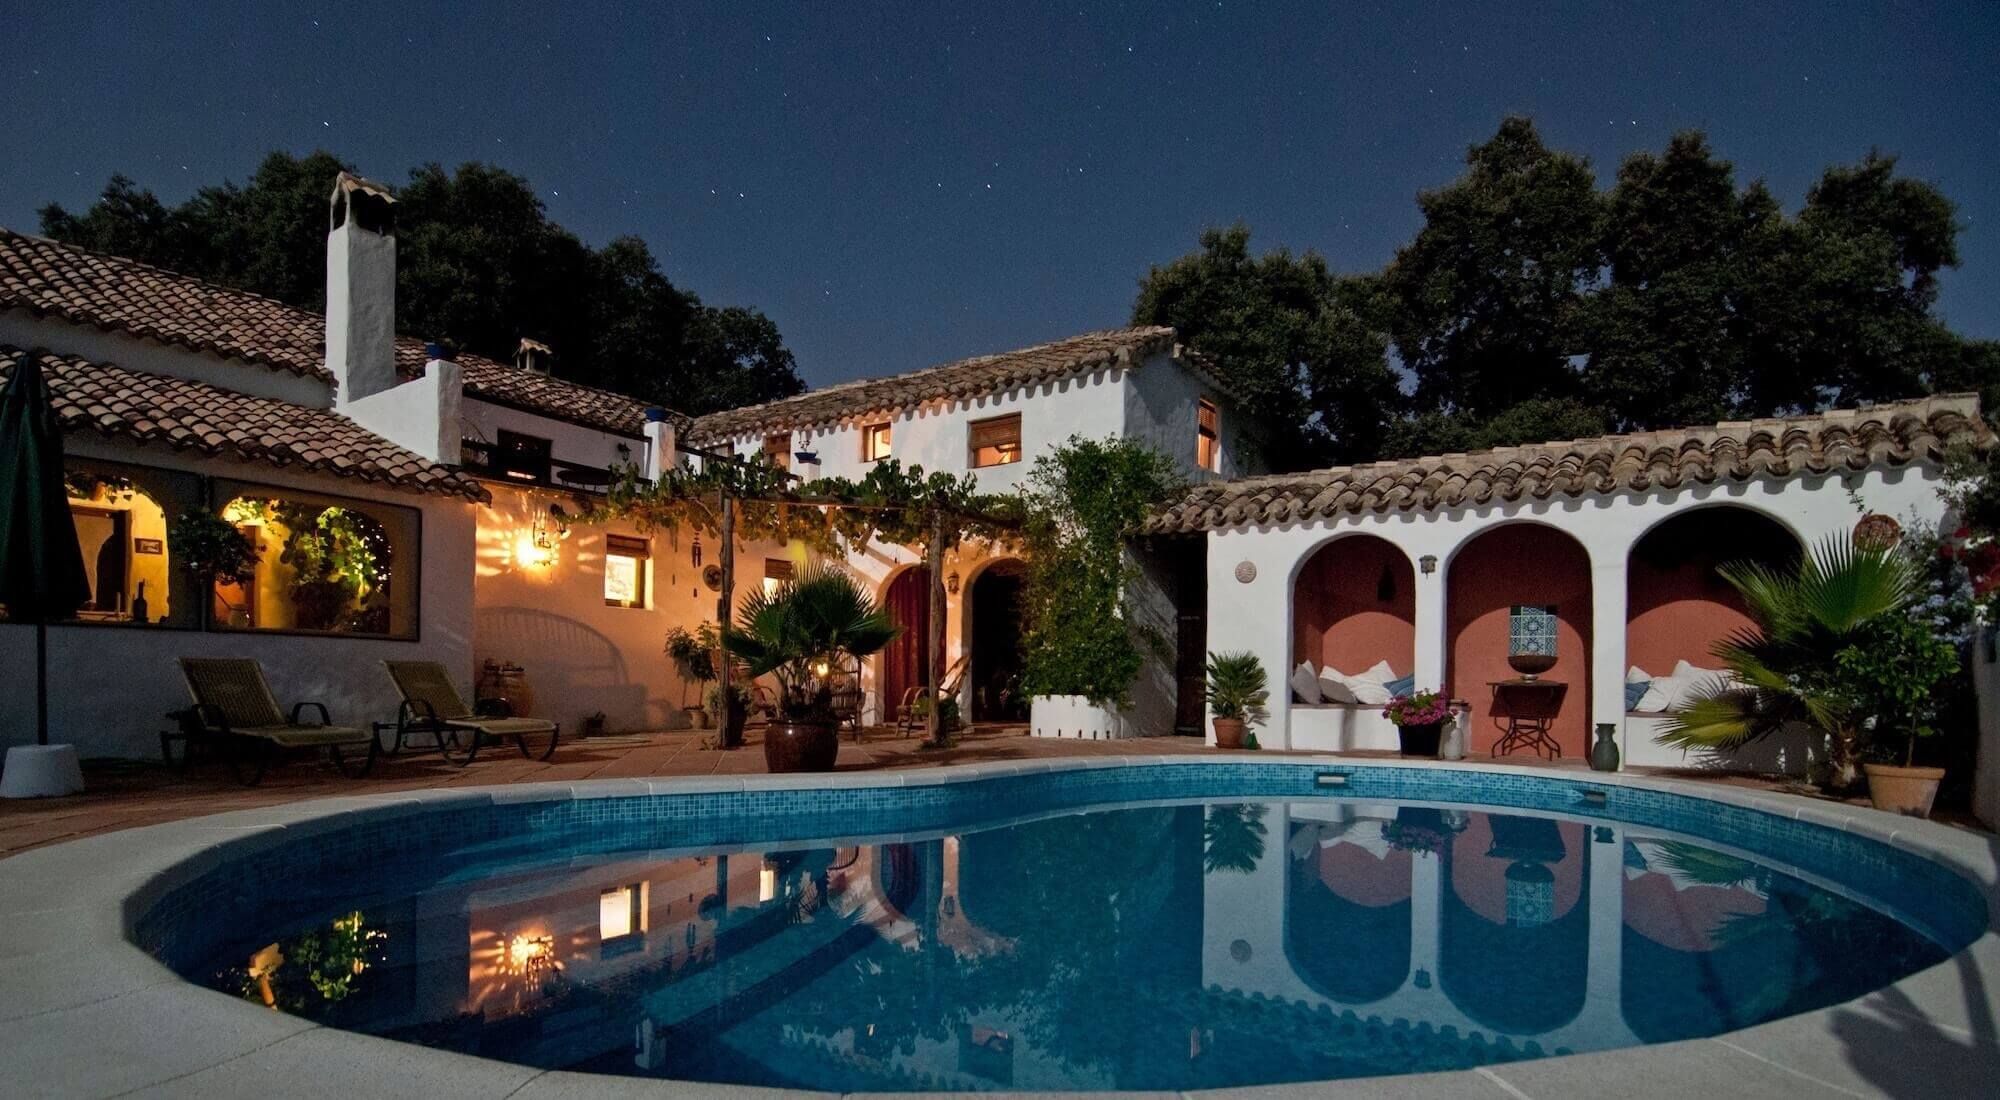
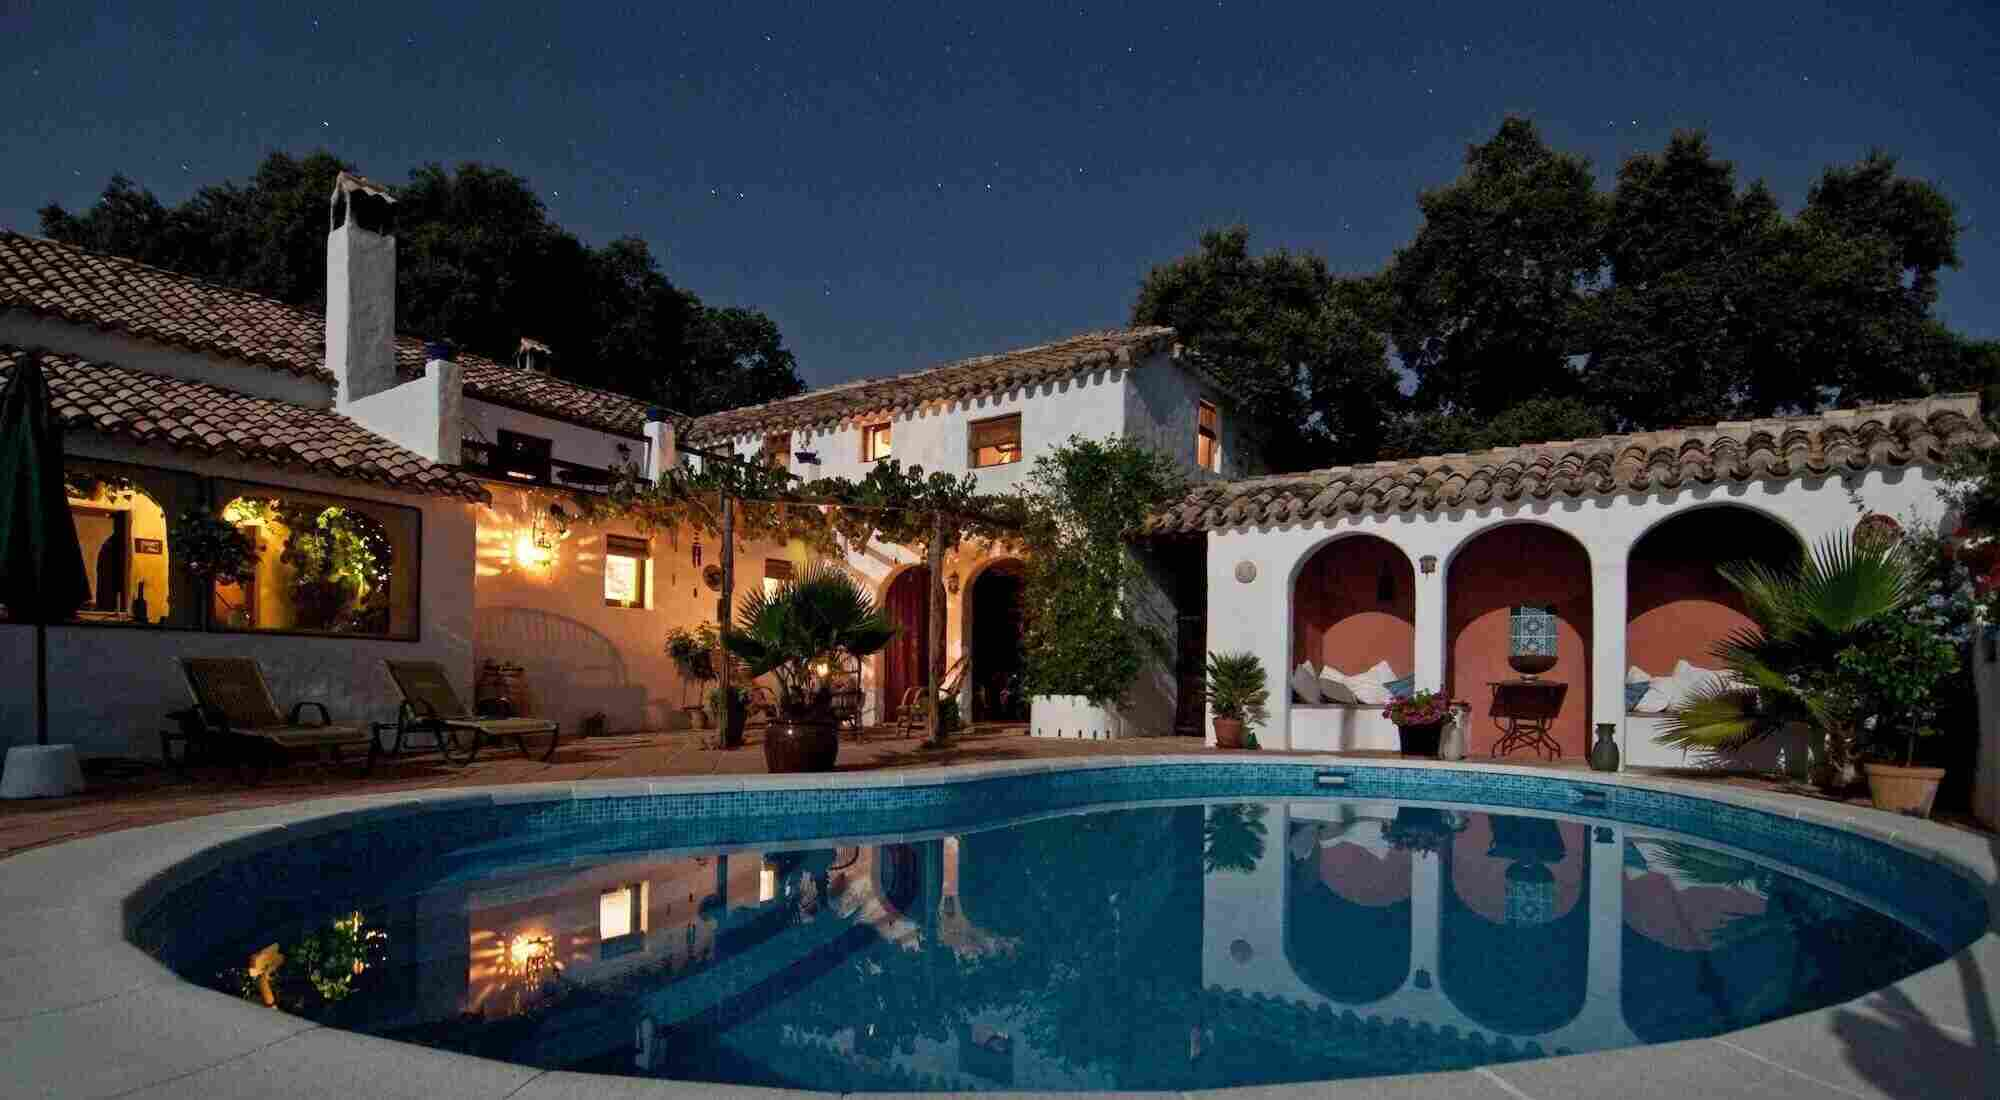
Fix photos

diff --git a/index.html b/index.html
@@ -480,7 +480,7 @@
 							<div class="portfolio-thumbnail">
 								<div class="top-thumbnail">
 									<a href="https://abcconsultants.io/" target="_blank">
-										<img src="./assets/images/abc-hero.jpeg" class="img-responsive" alt="img " />
+										<img src="./assets/images/abc-hero.jpg" class="img-responsive" alt="img " />
 									</a>
 								</div>
 								<div class="botom-thumbnail">
